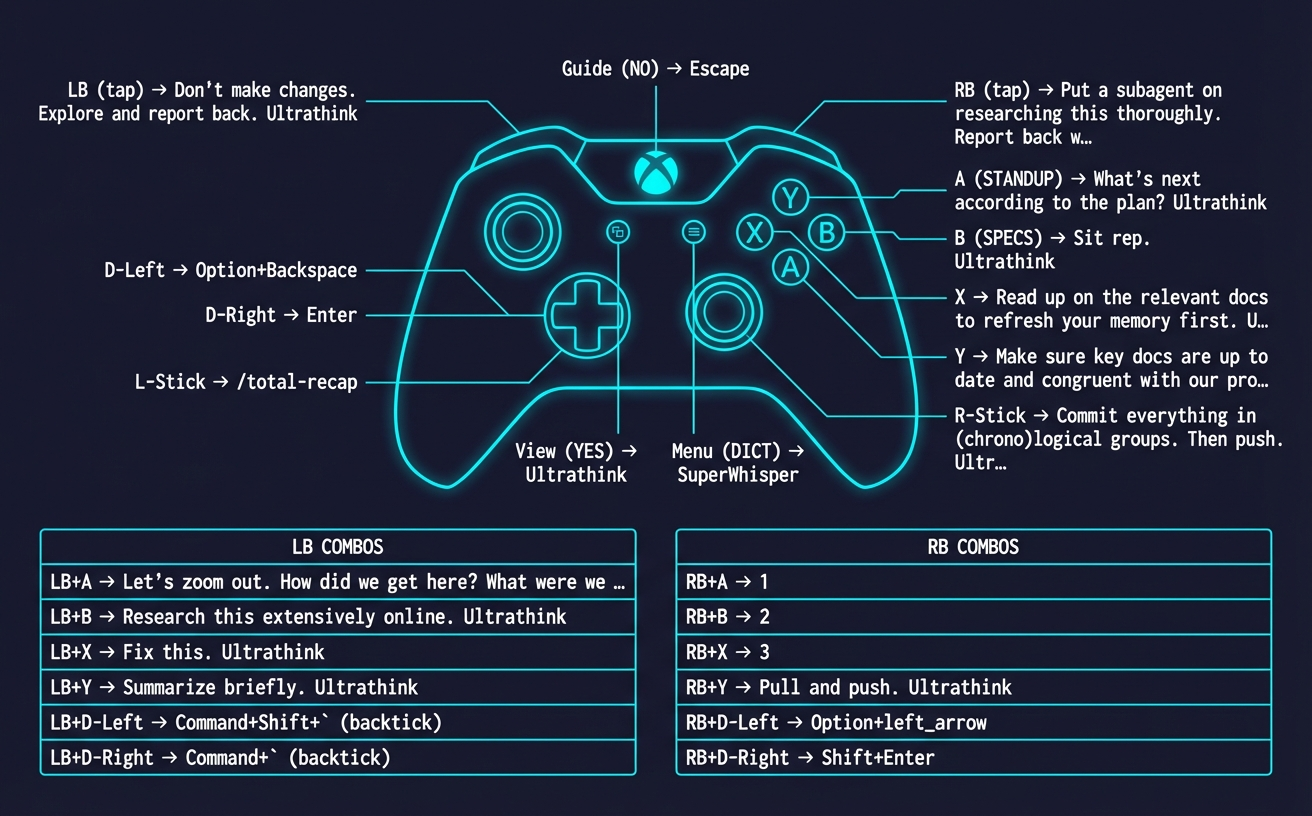
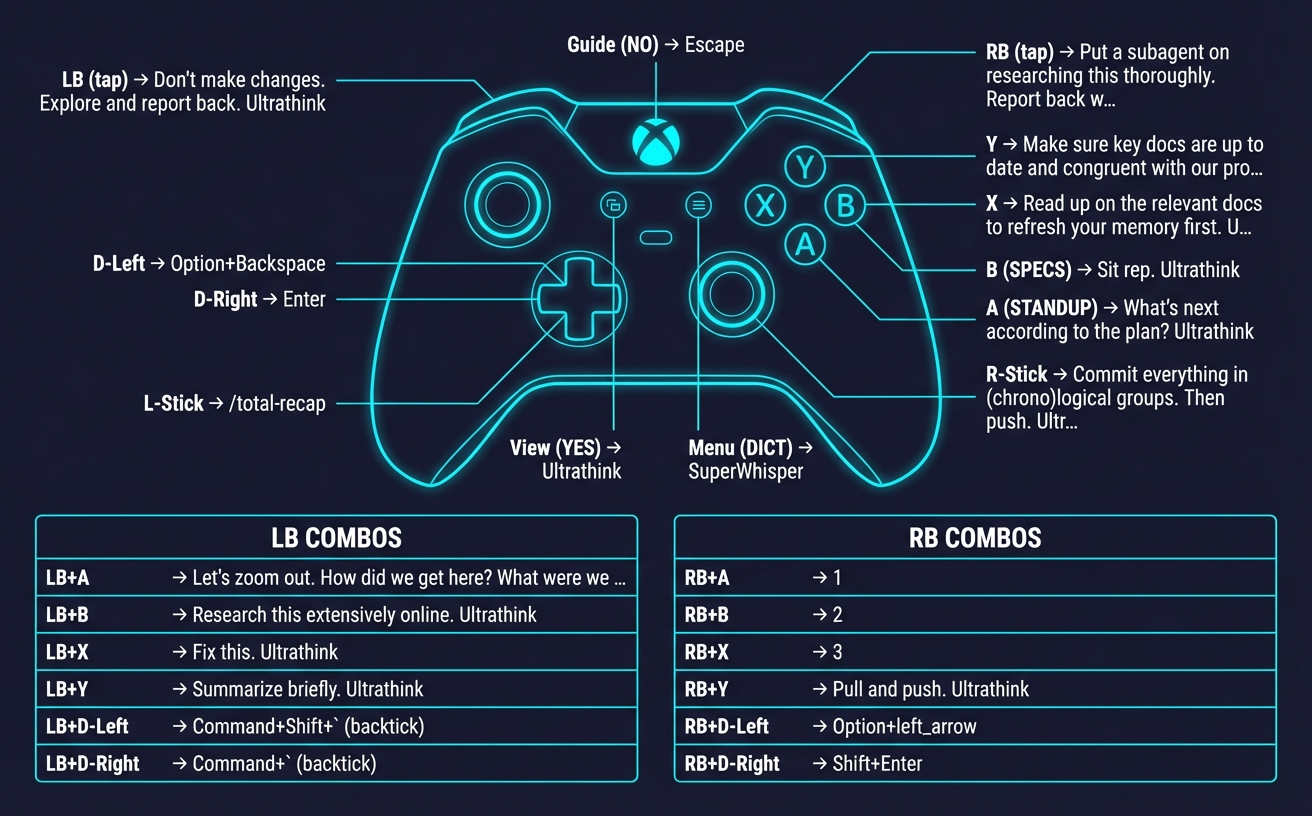
Update docs to reflect January 2026 progress
TODO.md:
- Added January 2026 section with wired USB research, shortcut updates, cheatsheet fixes
- Reorganized December 2025 items under subheading

README.md:
- Updated date to January 7, 2026
- Fixed Caps+d description (added "Remember the documentation philosophy")

CLAUDE.md:
- Added new analysis docs to Key Files section
- Added "Wired USB Support" section explaining GIP protocol limitation
- Fixed R-Stick description ("(chrono)logical")
- Added driver location reference

Regenerated cheatsheets with updated shortcut text.

🤖 Generated with [Claude Code](https://claude.com/claude-code)

Changed region(s): [[0.0, 0.0306, 1.0, 0.9804], [0.6562, 0.0613, 0.7188, 0.0919]]

diff --git a/CLAUDE.md b/CLAUDE.md
@@ -7,12 +7,14 @@ This project contains custom Karabiner-Elements keyboard modifications, primaril
 ## Key Files
 
 - `mods/keyboard_text_shortcuts.json` - Main Karabiner config with all Caps+key shortcuts
-- `mods/xbox_zed_claude.json` - Xbox controller mappings (all in one rule: standalone + LB/RB combos + DICT)
+- `mods/xbox_zed_claude.json` - Xbox controller mappings (25 actions: standalone + LB/RB combos + DICT)
 - `scripts/generate_cheatsheet_ai.py` - AI-generated cheat sheets (Gemini 3 Pro Image)
 - `docs/cheatsheet_keyboard.png` - Keyboard shortcuts visual reference
 - `docs/cheatsheet_xbox.png` - Xbox controller mappings visual reference
 - `docs/superwhisper_integration.md` - SuperWhisper vocabulary/replacements reference
 - `docs/xbox_button_reference.md` - Xbox controller button mappings + technical details
+- `docs/xbox_driver_macos_analysis.md` - Wired USB driver research (golden-narwhal12)
+- `docs/antimicrox_analysis.md` - AntiMicroX architecture analysis
 - `.claude/commands/analyze-shortcuts.md` - Slash command for analyzing message history
 
 ## Keyboard Layout
@@ -166,12 +168,25 @@ See `docs/xbox_button_reference.md` for full documentation including visual layo
 | *(none)* | D-pad Left | generic_desktop | Delete Word (Opt+Backspace) |
 | *(none)* | D-pad Right | generic_desktop | Enter key |
 | *(none)* | L-Stick | button14 | /total-recap (session recovery) |
-| *(none)* | R-Stick | button15 | "Commit everything in logical groups. Then push." |
+| *(none)* | R-Stick | button15 | "Commit everything in (chrono)logical groups. Then push." |
 
-### Xbox Controller File
-- `mods/xbox_zed_claude.json` - All controller mappings in one rule (25 unique actions: 13 standalone + 12 combos)
+### Xbox Controller Files
+- `mods/xbox_zed_claude.json` - All controller mappings (25 unique actions: 13 standalone + 12 combos)
+- `docs/xbox_button_reference.md` - Definitive button reference with technical details
+- `docs/xbox_driver_macos_analysis.md` - Wired USB driver research (golden-narwhal12)
+- `docs/antimicrox_analysis.md` - AntiMicroX architecture study (Linux/Windows only)
 
-**Note**: D-pad uses `generic_desktop: dpad_left` syntax, not `pointing_button`. See `docs/xbox_button_reference.md` for details.
+**Note**: D-pad uses `generic_desktop: dpad_left` syntax, not `pointing_button`.
+
+### Wired USB Support (January 2026)
+
+**Key finding**: Xbox controller uses different protocols depending on connection:
+- **Bluetooth**: Standard HID → Karabiner works ✅
+- **Wired USB**: GIP protocol → Karabiner cannot see buttons ❌
+
+Karabiner config includes both Product IDs (2834 wired, 2835 Bluetooth) but wired requires the golden-narwhal12 userspace driver for button input.
+
+**Driver location**: `~/Projects/xbox-controller-driver-macos/` (built, ready to test)
 
 ## SuperWhisper Integration
 

diff --git a/TODO.md b/TODO.md
@@ -1,22 +1,32 @@
 # TODO
 
-> **Session resumed December 31, 2025** - Continued from Dec 20 session.
-> Major progress on DICT button, cheatsheet generation, and documentation.
-
-> **Context from Dec 20**: Last activity before that was September 8, 2025 (~3.5 months gap).
-> Extensive development environment work done in ~/dotfiles during this time, including:
-> - TTS daemon with Hammerspoon hotkeys (Ctrl+Cmd+Alt+N/S)
-> - Rich slash command ecosystem (`/total-recap`, `/docs-review`, `/significance`, etc.)
-> - MCP server integrations (Zen, Graphiti, Serena, Linear, etc.)
->
-> **Integration opportunities identified:**
-> - Hammerspoon as fallback for keyboard shortcuts (if Fn key doesn't work via Karabiner)
-> - Text shortcuts for common AI prompts (Ultrathink, slash commands)
-> - Potential synergy between Karabiner controller mappings and Hammerspoon hotkeys
+> **Latest session: January 7, 2026** - Wired USB research, driver installation, doc cleanup.
 
 ---
 
 ## Active / Recent
+
+### January 2026
+
+16. **Wired USB Xbox Controller Research** *(Jan 5-7, 2026)*
+    - [x] Discovered: Wired USB uses Product ID 2834 (vs Bluetooth 2835)
+    - [x] Root cause: Xbox uses GIP protocol over USB, NOT HID (invisible to Karabiner)
+    - [x] Updated Karabiner config to include both Product IDs
+    - [x] Researched alternatives: AntiMicroX (dead on macOS), 360Controller (dead), golden-narwhal12 driver (active)
+    - [x] Created `docs/antimicrox_analysis.md` and `docs/xbox_driver_macos_analysis.md`
+    - [x] Cloned and built golden-narwhal12 driver at `~/Projects/xbox-controller-driver-macos/`
+    - [ ] **TEST**: Run driver with wired controller (`sudo ./simulator`)
+
+17. **Shortcut Updates** *(Jan 7, 2026)*
+    - [x] Caps+d / Y: Added "Remember the documentation philosophy" suffix
+    - [x] Caps+x / R-Stick: Changed "logical" to "(chrono)logical" groups
+
+18. **Cheatsheet Label Fix** *(Jan 7, 2026)*
+    - [x] Fixed SuperWhisper/Ultrathink pointing to wrong buttons
+    - [x] Solution: Rewrote prompt with positive-only framing (pink elephant problem)
+    - [x] Simplified prompt from 3799 to 2011 chars
+
+### December 2025
 
 14. **DICT Button Delayed Space** *(Dec 31, 2025)*
     - [x] Identified issue: SuperWhisper transcription async, spaces not appearing between dictation and shortcuts

diff --git a/README.md b/README.md
@@ -1,6 +1,6 @@
 # Karabiner Mods for macOS Development Workflows
 
-> **Last updated:** December 31, 2025
+> **Last updated:** January 7, 2026
 
 ## Overview
 This repository contains Karabiner-Elements configurations for supercharging development workflows on macOS. Originally focused on Xbox Wireless Controller mappings, it now also includes **keyboard text shortcuts** for AI-assisted development. The ultimate goal is to streamline and possibly minimize keyboard usage by mapping various controller inputs to shortcuts, shell scripts, or macros that control or automate typical tasks in IDEs like [Cursor](https://www.cursor.so/) and terminals like [Warp](https://www.warp.dev/). By integrating these configurations with Karabiner-Elements, we can remap controller inputs to keyboard events, scripts, or application launches.
@@ -76,7 +76,7 @@ The Caps Lock key serves two purposes:
 
 | Shortcut | Output | Svorak Key | QWERTY Physical |
 |----------|--------|------------|-----------------|
-| **Caps+d** | `Make sure key docs are up to date and congruent with our progress. Ultrathink` | d | h |
+| **Caps+d** | `Make sure key docs are up to date and congruent with our progress. Remember the documentation philosophy. Ultrathink` | d | h |
 | **Caps+e** | `Don't make changes. Explore and report back. Ultrathink` | e | d |
 | **Caps+a** | `Put a subagent on researching this thoroughly. Report back with findings. Ultrathink` | a | a |
 
